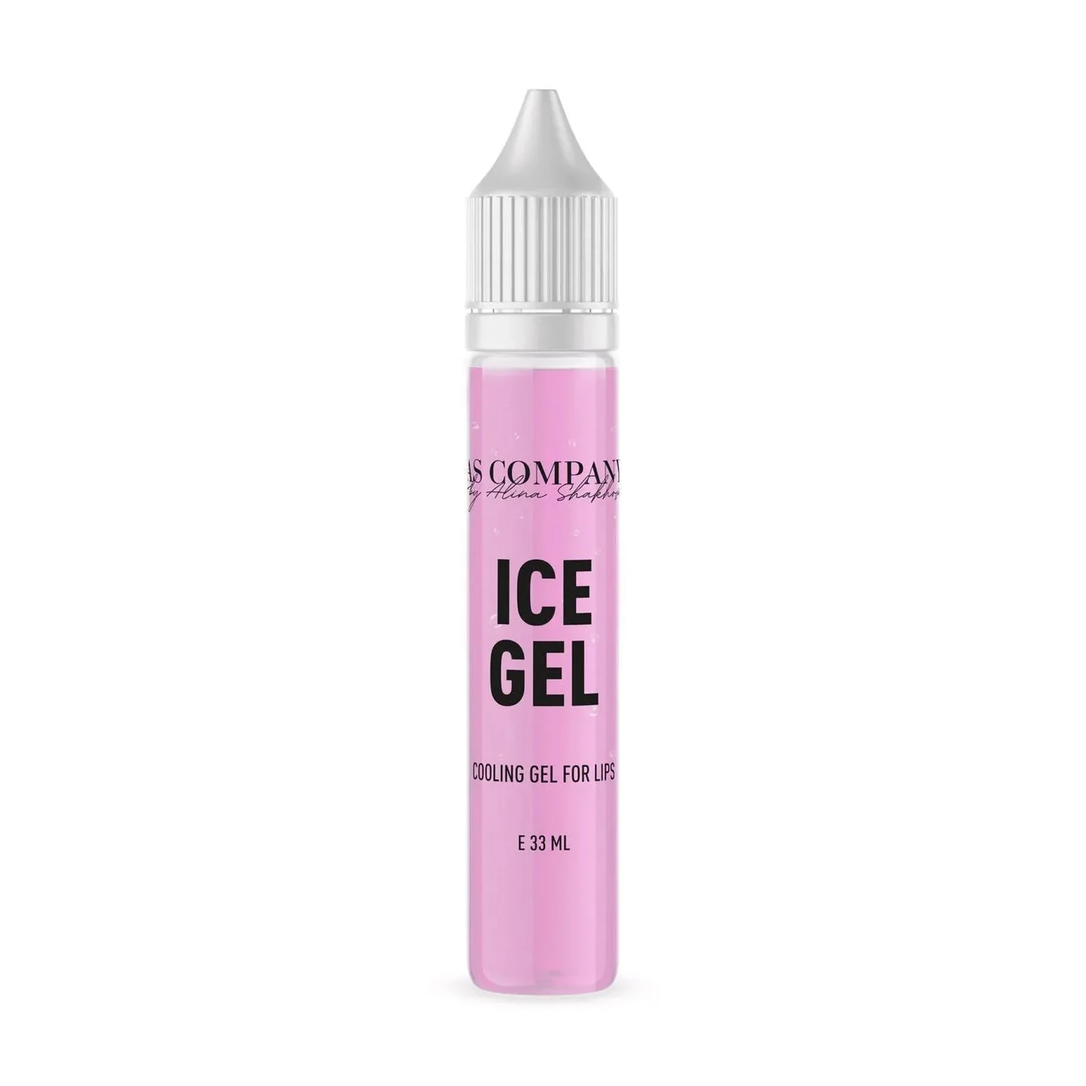
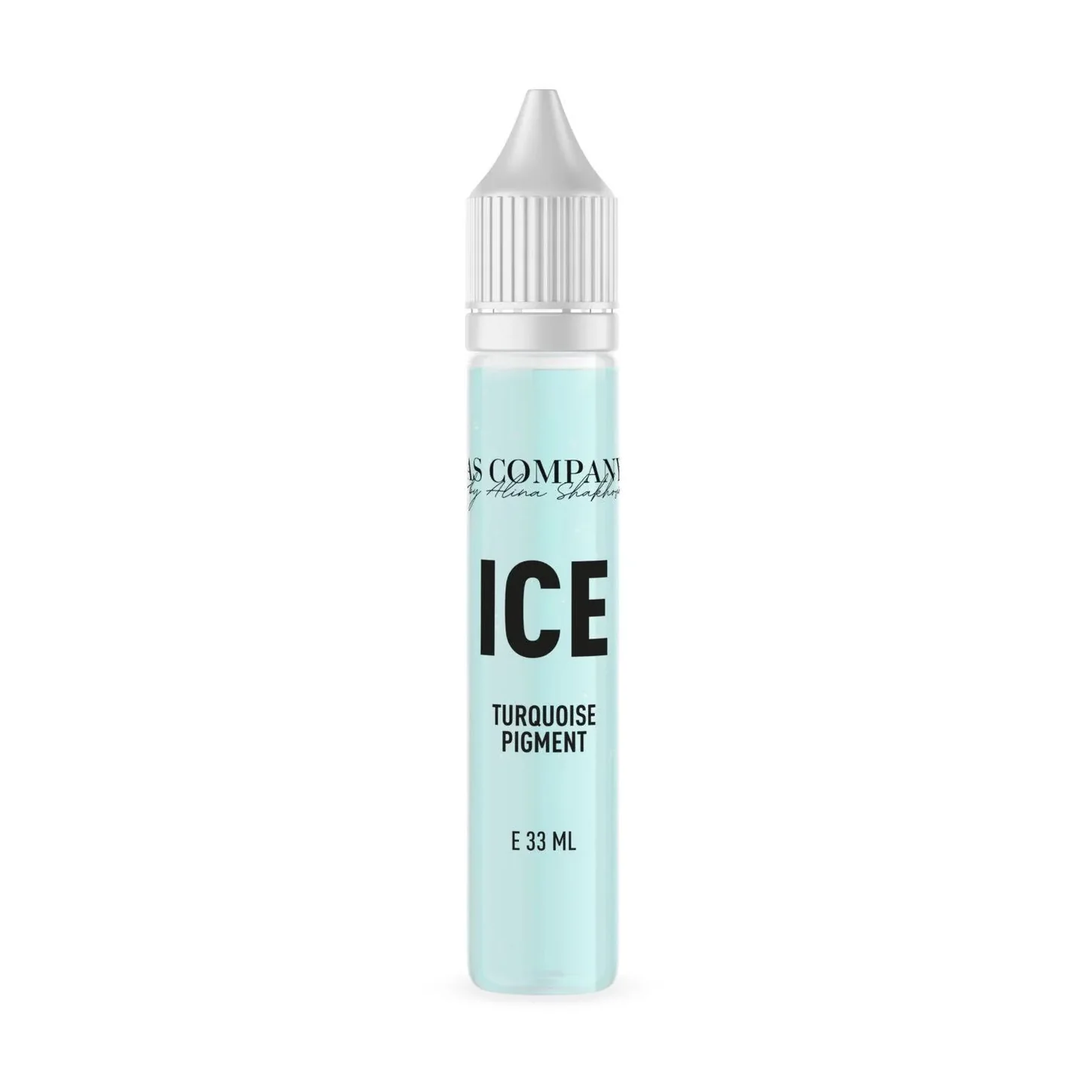
Uwagi klientki i Kariny z 26–27.10.2026 (czaty WhatsApp i grupa „Strona”)
Sklep (src/data/shop.json, ceny od Kariny):
- Kartridże FLAT Supernatural 250 zł (dawniej „Specially Collaboration”),
  SATELLITE 255 zł, Ice Gel 270 zł, Ice LTB Gel 270 zł, Glow Oil ×2 po
  125 zł, lampa pierścieniowa 1690 zł; Ice Gel Lips – na zapytanie.
- Nowe: Pędzel do brwi 15 zł (akcesoria do rysunku), Sztuczna skórka do
  ćwiczeń 50 zł i Pilot czerwony 10 zł (akcesoria do ćwiczeń).
- Nazwy żeli wg klientki: Ice Gel (zielony), Ice Gel Lips (różowy),
  Ice LTB Gel (matowy zielony); bez dopisków „napis na opakowaniu”.
- Kafle kategorii ze zdjęciami produktów, większe miniatury w wierszach
  (klientka: „bardzo dużo tekstów, bardzo mało obrazków”).
Pigmenty: SUPERNATURAL BROWS = jeden zestaw „Pigmenty Supernatural”
1000 zł (Karina 27.10) ; Hairstrokes przeniesione do AS OPIUM (klientka:
„pigmenty Hair Strokes to jest kolekcja Opium”); bez C1 Orange / Mineral.
Maszynka AS PRINCESS: zdjęcie Champagne Gold (Karina 26.10).
Szkolenia: harmonogram kursu dla linergistek (7 000 zł) jako 4. plakat.
Zdjęcia z czatów skopiowane do /Graphics (8 plików), course-08 i nowe
packshoty w public/graphics, media.js z manifestu.

Changed region(s): [[0.4062, 0.3125, 0.5938, 0.9375]]

diff --git a/src/lib/media.js b/src/lib/media.js
@@ -34,7 +34,7 @@ export const ACADEMY = [
   { src: '/graphics/academy-08.jpg', w: 1206, h: 1582, webp: { '480': '/graphics/academy-08-480.webp', '960': '/graphics/academy-08-960.webp', '1206': '/graphics/academy-08.webp' } },
 ];
 
-/** Grafiki programów szkoleń (7, z wtopionym tekstem) */
+/** Grafiki programów szkoleń (8, z wtopionym tekstem; course-08 – harmonogram kursu dla linergistek, 26.10.2026) */
 export const COURSE = [
   { src: '/graphics/course-01.jpg', w: 900, h: 1600, webp: { '480': '/graphics/course-01-480.webp', '900': '/graphics/course-01.webp' } },
   { src: '/graphics/course-02.jpg', w: 900, h: 1600, webp: { '480': '/graphics/course-02-480.webp', '900': '/graphics/course-02.webp' } },
@@ -43,6 +43,7 @@ export const COURSE = [
   { src: '/graphics/course-05.jpg', w: 586, h: 1040, webp: { '480': '/graphics/course-05-480.webp', '586': '/graphics/course-05.webp' } },
   { src: '/graphics/course-06.jpg', w: 586, h: 1040, webp: { '480': '/graphics/course-06-480.webp', '586': '/graphics/course-06.webp' } },
   { src: '/graphics/course-07.jpg', w: 586, h: 1040, webp: { '480': '/graphics/course-07-480.webp', '586': '/graphics/course-07.webp' } },
+  { src: '/graphics/course-08.jpg', w: 1086, h: 1920, webp: { '480': '/graphics/course-08-480.webp', '960': '/graphics/course-08-960.webp', '1086': '/graphics/course-08.webp' } },
 ];
 
 /** Efekty PMU brwi – pliki zbiorcze (18) */
@@ -133,7 +134,7 @@ export const PRODUCTS = {
   'product-as-classic-pigments-plum-dessert': { src: '/graphics/product-as-classic-pigments-plum-dessert.jpg', w: 1536, h: 1536, webp: { '480': '/graphics/product-as-classic-pigments-plum-dessert-480.webp', '960': '/graphics/product-as-classic-pigments-plum-dessert-960.webp', '1440': '/graphics/product-as-classic-pigments-plum-dessert-1440.webp', '1536': '/graphics/product-as-classic-pigments-plum-dessert.webp' } },
   'product-as-classic-pigments-watermelon-ice': { src: '/graphics/product-as-classic-pigments-watermelon-ice.jpg', w: 650, h: 650, webp: { '480': '/graphics/product-as-classic-pigments-watermelon-ice-480.webp', '650': '/graphics/product-as-classic-pigments-watermelon-ice.webp' } },
   'product-as-opium-light-minerals-pigments-black-brown': { src: '/graphics/product-as-opium-light-minerals-pigments-black-brown.jpg', w: 1536, h: 1536, webp: { '480': '/graphics/product-as-opium-light-minerals-pigments-black-brown-480.webp', '960': '/graphics/product-as-opium-light-minerals-pigments-black-brown-960.webp', '1440': '/graphics/product-as-opium-light-minerals-pigments-black-brown-1440.webp', '1536': '/graphics/product-as-opium-light-minerals-pigments-black-brown.webp' } },
-  'product-as-opium-light-minerals-pigments-dark-brown': { src: '/graphics/product-as-opium-light-minerals-pigments-dark-brown.jpg', w: 1170, h: 1179, webp: { '480': '/graphics/product-as-opium-light-minerals-pigments-dark-brown-480.webp', '960': '/graphics/product-as-opium-light-minerals-pigments-dark-brown-960.webp', '1170': '/graphics/product-as-opium-light-minerals-pigments-dark-brown.webp' } },
+  'product-as-opium-light-minerals-pigments-dark-brown': { src: '/graphics/product-as-opium-light-minerals-pigments-dark-brown.jpg', w: 1170, h: 1166, webp: { '480': '/graphics/product-as-opium-light-minerals-pigments-dark-brown-480.webp', '960': '/graphics/product-as-opium-light-minerals-pigments-dark-brown-960.webp', '1170': '/graphics/product-as-opium-light-minerals-pigments-dark-brown.webp' } },
   'product-as-opium-pigments-brazil': { src: '/graphics/product-as-opium-pigments-brazil.jpg', w: 1536, h: 1536, webp: { '480': '/graphics/product-as-opium-pigments-brazil-480.webp', '960': '/graphics/product-as-opium-pigments-brazil-960.webp', '1440': '/graphics/product-as-opium-pigments-brazil-1440.webp', '1536': '/graphics/product-as-opium-pigments-brazil.webp' } },
   'product-as-opium-pigments-brick': { src: '/graphics/product-as-opium-pigments-brick.jpg', w: 1536, h: 1536, webp: { '480': '/graphics/product-as-opium-pigments-brick-480.webp', '960': '/graphics/product-as-opium-pigments-brick-960.webp', '1440': '/graphics/product-as-opium-pigments-brick-1440.webp', '1536': '/graphics/product-as-opium-pigments-brick.webp' } },
   'product-as-opium-pigments-carrot': { src: '/graphics/product-as-opium-pigments-carrot.jpg', w: 650, h: 650, webp: { '480': '/graphics/product-as-opium-pigments-carrot-480.webp', '650': '/graphics/product-as-opium-pigments-carrot.webp' } },
@@ -148,6 +149,7 @@ export const PRODUCTS = {
   'product-as-opium-pigments-soil': { src: '/graphics/product-as-opium-pigments-soil.jpg', w: 1536, h: 1536, webp: { '480': '/graphics/product-as-opium-pigments-soil-480.webp', '960': '/graphics/product-as-opium-pigments-soil-960.webp', '1440': '/graphics/product-as-opium-pigments-soil-1440.webp', '1536': '/graphics/product-as-opium-pigments-soil.webp' } },
   'product-as-opium-pigments-whiskey': { src: '/graphics/product-as-opium-pigments-whiskey.jpg', w: 1536, h: 1536, webp: { '480': '/graphics/product-as-opium-pigments-whiskey-480.webp', '960': '/graphics/product-as-opium-pigments-whiskey-960.webp', '1440': '/graphics/product-as-opium-pigments-whiskey-1440.webp', '1536': '/graphics/product-as-opium-pigments-whiskey.webp' } },
   'product-as-opium-pigments-wood': { src: '/graphics/product-as-opium-pigments-wood.jpg', w: 1536, h: 1536, webp: { '480': '/graphics/product-as-opium-pigments-wood-480.webp', '960': '/graphics/product-as-opium-pigments-wood-960.webp', '1440': '/graphics/product-as-opium-pigments-wood-1440.webp', '1536': '/graphics/product-as-opium-pigments-wood.webp' } },
+  'product-as-princess-champagne-gold': { src: '/graphics/product-as-princess-champagne-gold.jpg', w: 1080, h: 1080, webp: { '480': '/graphics/product-as-princess-champagne-gold-480.webp', '960': '/graphics/product-as-princess-champagne-gold-960.webp', '1080': '/graphics/product-as-princess-champagne-gold.webp' } },
   'product-as-princess-gold': { src: '/graphics/product-as-princess-gold.jpg', w: 1080, h: 1080, webp: { '480': '/graphics/product-as-princess-gold-480.webp', '960': '/graphics/product-as-princess-gold-960.webp', '1080': '/graphics/product-as-princess-gold.webp' } },
   'product-as-princess-pink': { src: '/graphics/product-as-princess-pink.jpg', w: 1080, h: 1080, webp: { '480': '/graphics/product-as-princess-pink-480.webp', '960': '/graphics/product-as-princess-pink-960.webp', '1080': '/graphics/product-as-princess-pink.webp' } },
   'product-deva-maria-6-ml-paradise': { src: '/graphics/product-deva-maria-6-ml-paradise.jpg', w: 1280, h: 1280, webp: { '480': '/graphics/product-deva-maria-6-ml-paradise-480.webp', '960': '/graphics/product-deva-maria-6-ml-paradise-960.webp', '1280': '/graphics/product-deva-maria-6-ml-paradise.webp' } },
@@ -160,16 +162,22 @@ export const PRODUCTS = {
   'product-hairstrokes-h6-dark-brown': { src: '/graphics/product-hairstrokes-h6-dark-brown.jpg', w: 1536, h: 1536, webp: { '480': '/graphics/product-hairstrokes-h6-dark-brown-480.webp', '960': '/graphics/product-hairstrokes-h6-dark-brown-960.webp', '1440': '/graphics/product-hairstrokes-h6-dark-brown-1440.webp', '1536': '/graphics/product-hairstrokes-h6-dark-brown.webp' } },
   'product-harley-harley-quinn-6ml-kopia': { src: '/graphics/product-harley-harley-quinn-6ml-kopia.jpg', w: 1536, h: 1536, webp: { '480': '/graphics/product-harley-harley-quinn-6ml-kopia-480.webp', '960': '/graphics/product-harley-harley-quinn-6ml-kopia-960.webp', '1440': '/graphics/product-harley-harley-quinn-6ml-kopia-1440.webp', '1536': '/graphics/product-harley-harley-quinn-6ml-kopia.webp' } },
   'product-ice-gel': { src: '/graphics/product-ice-gel.jpg', w: 1536, h: 1536, webp: { '480': '/graphics/product-ice-gel-480.webp', '960': '/graphics/product-ice-gel-960.webp', '1440': '/graphics/product-ice-gel-1440.webp', '1536': '/graphics/product-ice-gel.webp' } },
+  'product-ice-gel-lips': { src: '/graphics/product-ice-gel-lips.jpg', w: 1536, h: 1536, webp: { '480': '/graphics/product-ice-gel-lips-480.webp', '960': '/graphics/product-ice-gel-lips-960.webp', '1440': '/graphics/product-ice-gel-lips-1440.webp', '1536': '/graphics/product-ice-gel-lips.webp' } },
+  'product-ice-ltb-gel': { src: '/graphics/product-ice-ltb-gel.jpg', w: 1536, h: 1536, webp: { '480': '/graphics/product-ice-ltb-gel-480.webp', '960': '/graphics/product-ice-ltb-gel-960.webp', '1440': '/graphics/product-ice-ltb-gel-1440.webp', '1536': '/graphics/product-ice-ltb-gel.webp' } },
   'product-joker-harley-quinn-6ml': { src: '/graphics/product-joker-harley-quinn-6ml.jpg', w: 1536, h: 1536, webp: { '480': '/graphics/product-joker-harley-quinn-6ml-480.webp', '960': '/graphics/product-joker-harley-quinn-6ml-960.webp', '1440': '/graphics/product-joker-harley-quinn-6ml-1440.webp', '1536': '/graphics/product-joker-harley-quinn-6ml.webp' } },
+  'product-kartridze-flat-supernatural': { src: '/graphics/product-kartridze-flat-supernatural.jpg', w: 930, h: 930, webp: { '480': '/graphics/product-kartridze-flat-supernatural-480.webp', '930': '/graphics/product-kartridze-flat-supernatural.webp' } },
   'product-kartridze-satellite': { src: '/graphics/product-kartridze-satellite.jpg', w: 1143, h: 1297, webp: { '480': '/graphics/product-kartridze-satellite-480.webp', '960': '/graphics/product-kartridze-satellite-960.webp', '1143': '/graphics/product-kartridze-satellite.webp' } },
   'product-kredka-brazowa': { src: '/graphics/product-kredka-brazowa.jpg', w: 320, h: 860, webp: { '320': '/graphics/product-kredka-brazowa.webp', '480': '/graphics/product-kredka-brazowa-480.webp' } },
   'product-kredka-czarna': { src: '/graphics/product-kredka-czarna.jpg', w: 408, h: 860, webp: { '408': '/graphics/product-kredka-czarna.webp', '480': '/graphics/product-kredka-czarna-480.webp' } },
   'product-kredka-czerwona': { src: '/graphics/product-kredka-czerwona.jpg', w: 320, h: 860, webp: { '320': '/graphics/product-kredka-czerwona.webp', '480': '/graphics/product-kredka-czerwona-480.webp' } },
   'product-lampa-pierscieniowa': { src: '/graphics/product-lampa-pierscieniowa.jpg', w: 1372, h: 1920, webp: { '480': '/graphics/product-lampa-pierscieniowa-480.webp', '960': '/graphics/product-lampa-pierscieniowa-960.webp', '1372': '/graphics/product-lampa-pierscieniowa.webp' } },
-  'product-ltb-numb': { src: '/graphics/product-ltb-numb.jpg', w: 1536, h: 1536, webp: { '480': '/graphics/product-ltb-numb-480.webp', '960': '/graphics/product-ltb-numb-960.webp', '1440': '/graphics/product-ltb-numb-1440.webp', '1536': '/graphics/product-ltb-numb.webp' } },
   'product-maria-magdalena-6-ml-paradise': { src: '/graphics/product-maria-magdalena-6-ml-paradise.jpg', w: 1280, h: 1280, webp: { '480': '/graphics/product-maria-magdalena-6-ml-paradise-480.webp', '960': '/graphics/product-maria-magdalena-6-ml-paradise-960.webp', '1280': '/graphics/product-maria-magdalena-6-ml-paradise.webp' } },
+  'product-pedzel-do-brwi': { src: '/graphics/product-pedzel-do-brwi.jpg', w: 1158, h: 1158, webp: { '480': '/graphics/product-pedzel-do-brwi-480.webp', '960': '/graphics/product-pedzel-do-brwi-960.webp', '1158': '/graphics/product-pedzel-do-brwi.webp' } },
+  'product-pigmenty-supernatural': { src: '/graphics/product-pigmenty-supernatural.jpg', w: 1713, h: 1713, webp: { '480': '/graphics/product-pigmenty-supernatural-480.webp', '960': '/graphics/product-pigmenty-supernatural-960.webp', '1440': '/graphics/product-pigmenty-supernatural-1440.webp', '1713': '/graphics/product-pigmenty-supernatural.webp' } },
+  'product-pilot-czerwony': { src: '/graphics/product-pilot-czerwony.jpg', w: 902, h: 902, webp: { '480': '/graphics/product-pilot-czerwony-480.webp', '902': '/graphics/product-pilot-czerwony.webp' } },
   'product-set-harley-quinn-do-ust': { src: '/graphics/product-set-harley-quinn-do-ust.jpg', w: 1536, h: 1536, webp: { '480': '/graphics/product-set-harley-quinn-do-ust-480.webp', '960': '/graphics/product-set-harley-quinn-do-ust-960.webp', '1440': '/graphics/product-set-harley-quinn-do-ust-1440.webp', '1536': '/graphics/product-set-harley-quinn-do-ust.webp' } },
   'product-set-paradise-do-ust': { src: '/graphics/product-set-paradise-do-ust.jpg', w: 1079, h: 946, webp: { '480': '/graphics/product-set-paradise-do-ust-480.webp', '960': '/graphics/product-set-paradise-do-ust-960.webp', '1079': '/graphics/product-set-paradise-do-ust.webp' } },
+  'product-sztuczna-skorka-do-cwiczen': { src: '/graphics/product-sztuczna-skorka-do-cwiczen.jpg', w: 1023, h: 1023, webp: { '480': '/graphics/product-sztuczna-skorka-do-cwiczen-480.webp', '960': '/graphics/product-sztuczna-skorka-do-cwiczen-960.webp', '1023': '/graphics/product-sztuczna-skorka-do-cwiczen.webp' } },
 };
 
 /** Prace z 29.09.2026 – kadry przycięte bez doklejonej butelki (scripts/przygotuj-grafiki.py,
@@ -239,6 +247,7 @@ export const BY_NAME = {
   'course-05': { src: '/graphics/course-05.jpg', w: 586, h: 1040, webp: { '480': '/graphics/course-05-480.webp', '586': '/graphics/course-05.webp' } },
   'course-06': { src: '/graphics/course-06.jpg', w: 586, h: 1040, webp: { '480': '/graphics/course-06-480.webp', '586': '/graphics/course-06.webp' } },
   'course-07': { src: '/graphics/course-07.jpg', w: 586, h: 1040, webp: { '480': '/graphics/course-07-480.webp', '586': '/graphics/course-07.webp' } },
+  'course-08': { src: '/graphics/course-08.jpg', w: 1086, h: 1920, webp: { '480': '/graphics/course-08-480.webp', '960': '/graphics/course-08-960.webp', '1086': '/graphics/course-08.webp' } },
   'lips-01': { src: '/graphics/lips-01.jpg', w: 1206, h: 1497, webp: { '480': '/graphics/lips-01-480.webp', '960': '/graphics/lips-01-960.webp', '1206': '/graphics/lips-01.webp' } },
   'lips-01-p1': { src: '/graphics/lips-01-p1.jpg', w: 1206, h: 753, webp: { '480': '/graphics/lips-01-p1-480.webp', '960': '/graphics/lips-01-p1-960.webp', '1206': '/graphics/lips-01-p1.webp' } },
   'lips-01-p2': { src: '/graphics/lips-01-p2.jpg', w: 1206, h: 744, webp: { '480': '/graphics/lips-01-p2-480.webp', '960': '/graphics/lips-01-p2-960.webp', '1206': '/graphics/lips-01-p2.webp' } },
@@ -266,7 +275,7 @@ export const BY_NAME = {
   'product-as-classic-pigments-plum-dessert': { src: '/graphics/product-as-classic-pigments-plum-dessert.jpg', w: 1536, h: 1536, webp: { '480': '/graphics/product-as-classic-pigments-plum-dessert-480.webp', '960': '/graphics/product-as-classic-pigments-plum-dessert-960.webp', '1440': '/graphics/product-as-classic-pigments-plum-dessert-1440.webp', '1536': '/graphics/product-as-classic-pigments-plum-dessert.webp' } },
   'product-as-classic-pigments-watermelon-ice': { src: '/graphics/product-as-classic-pigments-watermelon-ice.jpg', w: 650, h: 650, webp: { '480': '/graphics/product-as-classic-pigments-watermelon-ice-480.webp', '650': '/graphics/product-as-classic-pigments-watermelon-ice.webp' } },
   'product-as-opium-light-minerals-pigments-black-brown': { src: '/graphics/product-as-opium-light-minerals-pigments-black-brown.jpg', w: 1536, h: 1536, webp: { '480': '/graphics/product-as-opium-light-minerals-pigments-black-brown-480.webp', '960': '/graphics/product-as-opium-light-minerals-pigments-black-brown-960.webp', '1440': '/graphics/product-as-opium-light-minerals-pigments-black-brown-1440.webp', '1536': '/graphics/product-as-opium-light-minerals-pigments-black-brown.webp' } },
-  'product-as-opium-light-minerals-pigments-dark-brown': { src: '/graphics/product-as-opium-light-minerals-pigments-dark-brown.jpg', w: 1170, h: 1179, webp: { '480': '/graphics/product-as-opium-light-minerals-pigments-dark-brown-480.webp', '960': '/graphics/product-as-opium-light-minerals-pigments-dark-brown-960.webp', '1170': '/graphics/product-as-opium-light-minerals-pigments-dark-brown.webp' } },
+  'product-as-opium-light-minerals-pigments-dark-brown': { src: '/graphics/product-as-opium-light-minerals-pigments-dark-brown.jpg', w: 1170, h: 1166, webp: { '480': '/graphics/product-as-opium-light-minerals-pigments-dark-brown-480.webp', '960': '/graphics/product-as-opium-light-minerals-pigments-dark-brown-960.webp', '1170': '/graphics/product-as-opium-light-minerals-pigments-dark-brown.webp' } },
   'product-as-opium-pigments-brazil': { src: '/graphics/product-as-opium-pigments-brazil.jpg', w: 1536, h: 1536, webp: { '480': '/graphics/product-as-opium-pigments-brazil-480.webp', '960': '/graphics/product-as-opium-pigments-brazil-960.webp', '1440': '/graphics/product-as-opium-pigments-brazil-1440.webp', '1536': '/graphics/product-as-opium-pigments-brazil.webp' } },
   'product-as-opium-pigments-brick': { src: '/graphics/product-as-opium-pigments-brick.jpg', w: 1536, h: 1536, webp: { '480': '/graphics/product-as-opium-pigments-brick-480.webp', '960': '/graphics/product-as-opium-pigments-brick-960.webp', '1440': '/graphics/product-as-opium-pigments-brick-1440.webp', '1536': '/graphics/product-as-opium-pigments-brick.webp' } },
   'product-as-opium-pigments-carrot': { src: '/graphics/product-as-opium-pigments-carrot.jpg', w: 650, h: 650, webp: { '480': '/graphics/product-as-opium-pigments-carrot-480.webp', '650': '/graphics/product-as-opium-pigments-carrot.webp' } },
@@ -281,6 +290,7 @@ export const BY_NAME = {
   'product-as-opium-pigments-soil': { src: '/graphics/product-as-opium-pigments-soil.jpg', w: 1536, h: 1536, webp: { '480': '/graphics/product-as-opium-pigments-soil-480.webp', '960': '/graphics/product-as-opium-pigments-soil-960.webp', '1440': '/graphics/product-as-opium-pigments-soil-1440.webp', '1536': '/graphics/product-as-opium-pigments-soil.webp' } },
   'product-as-opium-pigments-whiskey': { src: '/graphics/product-as-opium-pigments-whiskey.jpg', w: 1536, h: 1536, webp: { '480': '/graphics/product-as-opium-pigments-whiskey-480.webp', '960': '/graphics/product-as-opium-pigments-whiskey-960.webp', '1440': '/graphics/product-as-opium-pigments-whiskey-1440.webp', '1536': '/graphics/product-as-opium-pigments-whiskey.webp' } },
   'product-as-opium-pigments-wood': { src: '/graphics/product-as-opium-pigments-wood.jpg', w: 1536, h: 1536, webp: { '480': '/graphics/product-as-opium-pigments-wood-480.webp', '960': '/graphics/product-as-opium-pigments-wood-960.webp', '1440': '/graphics/product-as-opium-pigments-wood-1440.webp', '1536': '/graphics/product-as-opium-pigments-wood.webp' } },
+  'product-as-princess-champagne-gold': { src: '/graphics/product-as-princess-champagne-gold.jpg', w: 1080, h: 1080, webp: { '480': '/graphics/product-as-princess-champagne-gold-480.webp', '960': '/graphics/product-as-princess-champagne-gold-960.webp', '1080': '/graphics/product-as-princess-champagne-gold.webp' } },
   'product-as-princess-gold': { src: '/graphics/product-as-princess-gold.jpg', w: 1080, h: 1080, webp: { '480': '/graphics/product-as-princess-gold-480.webp', '960': '/graphics/product-as-princess-gold-960.webp', '1080': '/graphics/product-as-princess-gold.webp' } },
   'product-as-princess-pink': { src: '/graphics/product-as-princess-pink.jpg', w: 1080, h: 1080, webp: { '480': '/graphics/product-as-princess-pink-480.webp', '960': '/graphics/product-as-princess-pink-960.webp', '1080': '/graphics/product-as-princess-pink.webp' } },
   'product-deva-maria-6-ml-paradise': { src: '/graphics/product-deva-maria-6-ml-paradise.jpg', w: 1280, h: 1280, webp: { '480': '/graphics/product-deva-maria-6-ml-paradise-480.webp', '960': '/graphics/product-deva-maria-6-ml-paradise-960.webp', '1280': '/graphics/product-deva-maria-6-ml-paradise.webp' } },
@@ -293,16 +303,22 @@ export const BY_NAME = {
   'product-hairstrokes-h6-dark-brown': { src: '/graphics/product-hairstrokes-h6-dark-brown.jpg', w: 1536, h: 1536, webp: { '480': '/graphics/product-hairstrokes-h6-dark-brown-480.webp', '960': '/graphics/product-hairstrokes-h6-dark-brown-960.webp', '1440': '/graphics/product-hairstrokes-h6-dark-brown-1440.webp', '1536': '/graphics/product-hairstrokes-h6-dark-brown.webp' } },
   'product-harley-harley-quinn-6ml-kopia': { src: '/graphics/product-harley-harley-quinn-6ml-kopia.jpg', w: 1536, h: 1536, webp: { '480': '/graphics/product-harley-harley-quinn-6ml-kopia-480.webp', '960': '/graphics/product-harley-harley-quinn-6ml-kopia-960.webp', '1440': '/graphics/product-harley-harley-quinn-6ml-kopia-1440.webp', '1536': '/graphics/product-harley-harley-quinn-6ml-kopia.webp' } },
   'product-ice-gel': { src: '/graphics/product-ice-gel.jpg', w: 1536, h: 1536, webp: { '480': '/graphics/product-ice-gel-480.webp', '960': '/graphics/product-ice-gel-960.webp', '1440': '/graphics/product-ice-gel-1440.webp', '1536': '/graphics/product-ice-gel.webp' } },
+  'product-ice-gel-lips': { src: '/graphics/product-ice-gel-lips.jpg', w: 1536, h: 1536, webp: { '480': '/graphics/product-ice-gel-lips-480.webp', '960': '/graphics/product-ice-gel-lips-960.webp', '1440': '/graphics/product-ice-gel-lips-1440.webp', '1536': '/graphics/product-ice-gel-lips.webp' } },
+  'product-ice-ltb-gel': { src: '/graphics/product-ice-ltb-gel.jpg', w: 1536, h: 1536, webp: { '480': '/graphics/product-ice-ltb-gel-480.webp', '960': '/graphics/product-ice-ltb-gel-960.webp', '1440': '/graphics/product-ice-ltb-gel-1440.webp', '1536': '/graphics/product-ice-ltb-gel.webp' } },
   'product-joker-harley-quinn-6ml': { src: '/graphics/product-joker-harley-quinn-6ml.jpg', w: 1536, h: 1536, webp: { '480': '/graphics/product-joker-harley-quinn-6ml-480.webp', '960': '/graphics/product-joker-harley-quinn-6ml-960.webp', '1440': '/graphics/product-joker-harley-quinn-6ml-1440.webp', '1536': '/graphics/product-joker-harley-quinn-6ml.webp' } },
+  'product-kartridze-flat-supernatural': { src: '/graphics/product-kartridze-flat-supernatural.jpg', w: 930, h: 930, webp: { '480': '/graphics/product-kartridze-flat-supernatural-480.webp', '930': '/graphics/product-kartridze-flat-supernatural.webp' } },
   'product-kartridze-satellite': { src: '/graphics/product-kartridze-satellite.jpg', w: 1143, h: 1297, webp: { '480': '/graphics/product-kartridze-satellite-480.webp', '960': '/graphics/product-kartridze-satellite-960.webp', '1143': '/graphics/product-kartridze-satellite.webp' } },
   'product-kredka-brazowa': { src: '/graphics/product-kredka-brazowa.jpg', w: 320, h: 860, webp: { '320': '/graphics/product-kredka-brazowa.webp', '480': '/graphics/product-kredka-brazowa-480.webp' } },
   'product-kredka-czarna': { src: '/graphics/product-kredka-czarna.jpg', w: 408, h: 860, webp: { '408': '/graphics/product-kredka-czarna.webp', '480': '/graphics/product-kredka-czarna-480.webp' } },
   'product-kredka-czerwona': { src: '/graphics/product-kredka-czerwona.jpg', w: 320, h: 860, webp: { '320': '/graphics/product-kredka-czerwona.webp', '480': '/graphics/product-kredka-czerwona-480.webp' } },
   'product-lampa-pierscieniowa': { src: '/graphics/product-lampa-pierscieniowa.jpg', w: 1372, h: 1920, webp: { '480': '/graphics/product-lampa-pierscieniowa-480.webp', '960': '/graphics/product-lampa-pierscieniowa-960.webp', '1372': '/graphics/product-lampa-pierscieniowa.webp' } },
-  'product-ltb-numb': { src: '/graphics/product-ltb-numb.jpg', w: 1536, h: 1536, webp: { '480': '/graphics/product-ltb-numb-480.webp', '960': '/graphics/product-ltb-numb-960.webp', '1440': '/graphics/product-ltb-numb-1440.webp', '1536': '/graphics/product-ltb-numb.webp' } },
   'product-maria-magdalena-6-ml-paradise': { src: '/graphics/product-maria-magdalena-6-ml-paradise.jpg', w: 1280, h: 1280, webp: { '480': '/graphics/product-maria-magdalena-6-ml-paradise-480.webp', '960': '/graphics/product-maria-magdalena-6-ml-paradise-960.webp', '1280': '/graphics/product-maria-magdalena-6-ml-paradise.webp' } },
+  'product-pedzel-do-brwi': { src: '/graphics/product-pedzel-do-brwi.jpg', w: 1158, h: 1158, webp: { '480': '/graphics/product-pedzel-do-brwi-480.webp', '960': '/graphics/product-pedzel-do-brwi-960.webp', '1158': '/graphics/product-pedzel-do-brwi.webp' } },
+  'product-pigmenty-supernatural': { src: '/graphics/product-pigmenty-supernatural.jpg', w: 1713, h: 1713, webp: { '480': '/graphics/product-pigmenty-supernatural-480.webp', '960': '/graphics/product-pigmenty-supernatural-960.webp', '1440': '/graphics/product-pigmenty-supernatural-1440.webp', '1713': '/graphics/product-pigmenty-supernatural.webp' } },
+  'product-pilot-czerwony': { src: '/graphics/product-pilot-czerwony.jpg', w: 902, h: 902, webp: { '480': '/graphics/product-pilot-czerwony-480.webp', '902': '/graphics/product-pilot-czerwony.webp' } },
   'product-set-harley-quinn-do-ust': { src: '/graphics/product-set-harley-quinn-do-ust.jpg', w: 1536, h: 1536, webp: { '480': '/graphics/product-set-harley-quinn-do-ust-480.webp', '960': '/graphics/product-set-harley-quinn-do-ust-960.webp', '1440': '/graphics/product-set-harley-quinn-do-ust-1440.webp', '1536': '/graphics/product-set-harley-quinn-do-ust.webp' } },
   'product-set-paradise-do-ust': { src: '/graphics/product-set-paradise-do-ust.jpg', w: 1079, h: 946, webp: { '480': '/graphics/product-set-paradise-do-ust-480.webp', '960': '/graphics/product-set-paradise-do-ust-960.webp', '1079': '/graphics/product-set-paradise-do-ust.webp' } },
+  'product-sztuczna-skorka-do-cwiczen': { src: '/graphics/product-sztuczna-skorka-do-cwiczen.jpg', w: 1023, h: 1023, webp: { '480': '/graphics/product-sztuczna-skorka-do-cwiczen-480.webp', '960': '/graphics/product-sztuczna-skorka-do-cwiczen-960.webp', '1023': '/graphics/product-sztuczna-skorka-do-cwiczen.webp' } },
   'studio-01': { src: '/graphics/studio-01.jpg', w: 1068, h: 1600, webp: { '480': '/graphics/studio-01-480.webp', '960': '/graphics/studio-01-960.webp', '1068': '/graphics/studio-01.webp' } },
   'studio-02': { src: '/graphics/studio-02.jpg', w: 1068, h: 1600, webp: { '480': '/graphics/studio-02-480.webp', '960': '/graphics/studio-02-960.webp', '1068': '/graphics/studio-02.webp' } },
   'studio-03': { src: '/graphics/studio-03.jpg', w: 1068, h: 1600, webp: { '480': '/graphics/studio-03-480.webp', '960': '/graphics/studio-03-960.webp', '1068': '/graphics/studio-03.webp' } },

diff --git a/src/lib/pigments.js b/src/lib/pigments.js
@@ -44,18 +44,21 @@ function withEnDash(value) {
  * Katalog wg klientki i Kariny (decyzja Filipa z 18.10.2026: „wprowadź tak, jak prosiła klientka”).
  *
  * Grupy – klientka 14.10.2026: „Katalog pigmentów dzielimy na: pigmenty SUPERNATURAL BROWS, pigmenty
- * AS opium (usta, brwi), pigmenty AS Classic (usta, brwi), pigmenty AS opium light”; SUPERNATURAL
- * BROWS = kolekcja Hairstrokes (decyzja Filipa). Lista Kariny z 14.10.2026 zostawia też kolekcje
+ * AS opium (usta, brwi), pigmenty AS Classic (usta, brwi), pigmenty AS opium light”. Klientka
+ * 26.10.2026: „Supernatural Brows to jest jeden, jedyny set aktualnie … pigmenty Hair Strokes to jest
+ * kolekcja Opium” – SUPERNATURAL BROWS = jeden zestaw z pigments-client.json (Karina 27.10: „Set
+ * pigmentów Supernatural cena 1000zł”), Hairstrokes przeniesione do AS OPIUM (CLIENT_MOVED).
+ * Lista Kariny z 14.10.2026 zostawia też kolekcje
  * Harley Quinn i Paradise (dodaje ich zestawy, usuwa część odcieni) – osobne grupy na końcu.
  * Areola/Camouflage i Trichopigmentation – „Należy zabrać wszystkie pigmenty z kolekcji”.
  *
  * CLIENT_REMOVED – pozycje, które Karina kazała „zabrać”; dane w src/data/pigments.json zostają
  * bez zmian (to kopia danych z 29.09), filtr działa tutaj. CLIENT_EXTRA – nowe pozycje z listy
- * Kariny (src/data/pigments-client.json, np. „Hairstrokes Set Collaboration”, przedsprzedaż).
+ * Kariny (src/data/pigments-client.json, np. zestaw „Pigmenty Supernatural”, przedsprzedaż).
  * `name` w grupie – nazwa na stronie (inna niż w danych).
  */
 export const CLIENT_GROUPS = [
-  { id: 'hairstrokes', name: 'SUPERNATURAL BROWS' },
+  { id: 'supernatural-brows' },
   { id: 'as-opium' },
   { id: 'as-classic' },
   { id: 'as-opium-light-minerals' },
@@ -104,15 +107,23 @@ export const CLIENT_REMOVED = new Set([
     'pink-peach', 'red-royal', 'salmon', 'skin', 'toffee',
   ].map((s) => `as-opium-pigments-${s}`),
   'ultra-black-6-ml-pigment-do-kresek',
+  // Karina 26.10.2026: „Pigment C1 Orange nie jest dostępny w naszej sprzedaży” (C1 Orange / Mineral)
+  'hairstrokes-h1-brown',
 ]);
+
+/* Klientka 26.10.2026: „pigmenty Hair Strokes to jest kolekcja Opium” – pozycje Hairstrokes
+   (H6, H7, Eyebrow Set Hair Strokes) pokazujemy w AS OPIUM. */
+export const CLIENT_MOVED = { hairstrokes: 'as-opium' };
 
 const CLIENT_EXTRA = rawClient.products;
 
 function clientCatalog(full) {
-  const byId = new Map(full.collections.map((c) => [c.id, c]));
+  /* kolekcje z danych + nowe od klientki (SUPERNATURAL BROWS – pigments-client.json) */
+  const byId = new Map([...full.collections, ...(rawClient.collections ?? [])].map((c) => [c.id, c]));
   const order = new Map(CLIENT_GROUPS.map((g, i) => [g.id, i]));
   /* sortowanie stabilne – w obrębie kolekcji kolejność z danych (odcienie → zestawy), nowe na końcu */
   const products = [...full.products.filter((p) => !CLIENT_REMOVED.has(p.id)), ...CLIENT_EXTRA]
+    .map((p) => (CLIENT_MOVED[p.collection] ? { ...p, collection: CLIENT_MOVED[p.collection] } : p))
     .filter((p) => order.has(p.collection))
     .sort((a, b) => order.get(a.collection) - order.get(b.collection) || Number(a.isSet) - Number(b.isSet));
   /* liczby kolekcji z pozycji, które zostały (w danych – stan sprzed listy Kariny) */
@@ -153,7 +164,7 @@ export const PRICE_MAX_AGE_DAYS = 14;
 /**
  * 19.10.2026 – decyzja Filipa: ceny pigmentów z danych (stan z 29.09) obowiązują bez wygasania.
  * Klientka widziała je na stronie 30.09 bez uwag, a Karina Lesiv (14.10) podała ceny tylko
- * produktów spoza tych danych (Hairstrokes Set Collaboration, kartridże, kredki). Danych nie
+ * produktów spoza tych danych (zestaw Supernatural Brows, kartridże, kredki). Danych nie
  * synchronizujemy już ze sklepem (decyzja Filipa z 18.10), więc wygasanie po PRICE_MAX_AGE_DAYS
  * nie ma zastosowania; podpis „Ceny z 29.09.2026” zostaje. false → wraca wygasanie.
  */

diff --git a/src/views/Shop.jsx b/src/views/Shop.jsx
@@ -93,6 +93,18 @@ function Hero() {
 /*  02 – KATEGORIE                                                     */
 /* ================================================================== */
 
+/* Zdjęcie na kaflu kategorii – packshot z /Graphics (klientka 26.10.2026: „bardzo dużo tekstów,
+   bardzo mało obrazków, po których nie mogę od razu poznać produkty”). Lasery – bez produktu. */
+const TILE_PHOTO = {
+  '/pigmenty': 'as-opium-pigments-brazil',
+  '/maszynki': 'as-princess-gold',
+  kartridze: 'kartridze-flat-supernatural',
+  'akcesoria-do-rysunku': 'kredka-czarna',
+  'akcesoria-do-cwiczen': 'sztuczna-skorka-do-cwiczen',
+  'srodki-zabiegowe': 'ice-gel',
+  lampy: 'lampa-pierscieniowa',
+};
+
 function Categories({ links }) {
   const t = useContent(shopDict);
   const meta = (link) => {
@@ -116,11 +128,19 @@ function Categories({ links }) {
                 <Link
                   href={link.href}
                   /* as-glare – Magic UI „glare-hover” (CSS): złoty odblask przy najechaniu myszą */
-                  className="as-glare group flex min-h-[5.5rem] items-start gap-4 py-5 sm:min-h-[7.5rem] sm:flex-col sm:justify-between"
+                  className="as-glare group flex min-h-[5.5rem] items-center gap-4 py-4 sm:min-h-[7.5rem] sm:flex-col sm:items-start sm:justify-between sm:py-5"
                 >
-                  <span aria-hidden="true" className="as-label w-6 shrink-0 pt-1 text-gold-deep">
+                  <span aria-hidden="true" className="as-label w-6 shrink-0 text-gold-deep sm:pt-1">
                     {String(i + 1).padStart(2, '0')}
                   </span>
+                  {/* telefon: miniatura 64 px obok nazwy; od sm – kwadrat nad nazwą */}
+                  {(TILE_PHOTO[link.href] || TILE_PHOTO[anchorOf(link.href)]) && (
+                    <ProductPhoto
+                      product={{ id: TILE_PHOTO[link.href] || TILE_PHOTO[anchorOf(link.href)] }}
+                      sizes="(min-width: 640px) 112px, 64px"
+                      className="w-16 shrink-0 sm:w-28"
+                    />
+                  )}
                   <span className="min-w-0">
                     <span className="as-title block text-ink decoration-1 underline-offset-4 group-hover:underline">
                       {link.label}

diff --git a/src/views/Machines.jsx b/src/views/Machines.jsx
@@ -122,6 +122,8 @@ const PRINCESS = {
      różowy = Pink); Champagne Gold bez zdjęcia – MachinePhotos dopisuje go
      w adnotacji pod zdjęciami. */
   photos: [
+    /* Champagne Gold – zdjęcie od Kariny Lesiv (26.10.2026: „AS PRINCESS Champagne Gold”) */
+    { image: PRODUCTS['product-as-princess-champagne-gold'], color: 'Champagne Gold' },
     { image: PRODUCTS['product-as-princess-gold'], color: 'Gold' },
     { image: PRODUCTS['product-as-princess-pink'], color: 'Pink' },
   ].filter((p) => p.image),
@@ -216,8 +218,8 @@ function MachinePhotos({ machine, className }) {
     withoutPhoto.map((c) => c.replace(/ /g, '\u00a0'))
   );
   return (
-    <div className={cn('max-w-[22rem]', className)}>
-      <div className="grid grid-cols-2 gap-4 sm:gap-6">
+    <div className={cn(machine.photos.length > 2 ? 'max-w-[30rem]' : 'max-w-[22rem]', className)}>
+      <div className={cn('grid gap-4 sm:gap-6', machine.photos.length > 2 ? 'grid-cols-3' : 'grid-cols-2')}>
         {machine.photos.map((photo) => (
           <figure key={photo.color} className="min-w-0">
             <div className="relative h-[min(18rem,62svh)] sm:h-[min(20rem,62svh)] md:h-[min(26rem,72svh)] lg:h-[min(28rem,72svh)]">

diff --git a/src/components/shop/ShopRow.jsx b/src/components/shop/ShopRow.jsx
@@ -22,8 +22,8 @@ import { useContent, useLocale } from '@/i18n/client';
 import { shopDict } from '@/content/views/shop';
 import { ADD_BTN, PriceLine, ProductPhoto, displayName } from '@/components/pigments/parts';
 
-/* Miniatura: 56 px na telefonie, 72 px od sm. */
-const THUMB_SIZES = '(min-width: 640px) 72px, 56px';
+/* Miniatura: 72 px na telefonie, 88 px od sm (klientka 26.10: „mało obrazków”). */
+const THUMB_SIZES = '(min-width: 640px) 88px, 72px';
 
 function ShopRowBase({ product, qty, onAdd, onDetails, thumbs = false }) {
   const t = useContent(shopDict);
@@ -38,7 +38,7 @@ function ShopRowBase({ product, qty, onAdd, onDetails, thumbs = false }) {
       aria-labelledby={titleId}
       className={cn(
         'grid gap-x-4 border-t border-ink/15 py-4 sm:gap-x-5',
-        thumbs ? 'grid-cols-[3.5rem_minmax(0,1fr)] sm:grid-cols-[4.5rem_minmax(0,1fr)]' : 'grid-cols-[minmax(0,1fr)]'
+        thumbs ? 'grid-cols-[4.5rem_minmax(0,1fr)] sm:grid-cols-[5.5rem_minmax(0,1fr)]' : 'grid-cols-[minmax(0,1fr)]'
       )}
     >
       {thumbs && (hasPhoto ? <ProductPhoto product={product} sizes={THUMB_SIZES} className="self-start" /> : <span aria-hidden="true" />)}

diff --git a/src/components/pigments/ProductCell.jsx b/src/components/pigments/ProductCell.jsx
@@ -154,7 +154,7 @@ function SetRowBase({ product, qty, onAdd, onDetails }) {
             ))}
           </p>
         </div>
-        {/* przedsprzedaż (lista Kariny z 14.10.2026, np. Hairstrokes Set Collaboration) */}
+        {/* przedsprzedaż (lista Kariny z 14.10.2026, np. zestaw Pigmenty Supernatural) */}
         {product.presale && <PresaleBadge className="mt-2">Sprzedaż przedpremierowa</PresaleBadge>}
         {/* h4: zestawy stoją pod nagłówkiem „Zestawy” (h3) */}
         <h4 id={titleId} className="mt-1.5 text-[1.0625rem] leading-snug text-ink">

diff --git a/src/lib/site.js b/src/lib/site.js
@@ -339,6 +339,8 @@ export const COURSES = [
       { index: 1, caption: 'Plakat' },
       { index: 0, caption: 'Program' },
       { index: 2, caption: 'Zakres i cena' },
+      /* Karina Lesiv 26.10.2026: „dodanie harmonogramu do tego kursu za 7 tysięcy” (course-08) */
+      { index: 7, caption: 'Harmonogram' },
     ],
     cta: 'Zapytaj o termin',
     requiresContact: false,

diff --git a/scripts/przygotuj-grafiki.py b/scripts/przygotuj-grafiki.py
@@ -125,8 +125,9 @@ NEW_PRODUCTS = {
     # Sklep (/sklep, src/data/shop.json) – prośba klientki z 14.10.2026: produkty ze zdjęć z 29.09,
     # których dotąd nie było na stronie; nazwy i pojemności z opakowań na zdjęciach.
     # LTB NUMB – packshot na czarnym tle.
-    'product-ltb-numb': '23.05.37',
-    'product-ice-gel': '23.05.37 (1)',              # różowy ICE GEL „cooling gel for lips”
+    # nazwy żeli – klientka 26.10.2026: „ICE GEL – zielony, ICE GEL LIPS – różowy, ICE LTB GEL – matowy zielony”
+    'product-ice-ltb-gel': '23.05.37',              # ICE LTB GEL (dawniej „LTB Numb”)
+    'product-ice-gel-lips': '23.05.37 (1)',         # ICE GEL LIPS – różowy „cooling gel for lips”
     'product-glow-oil-pineapple': '23.05.37 (2)',
     'product-glow-oil-strawberries': '23.05.38',
     'product-lampa-pierscieniowa': '23.05.38 (5)',  # lampa pierścieniowa na statywie
@@ -143,7 +144,24 @@ NEW_PRODUCTS = {
     'product-kredka-czarna': '2026-10-14 at 16.53.15',
     'product-kredka-brazowa': '2026-10-14 at 16.53.41',
     'product-kredka-czerwona': '2026-10-14 at 16.54.08',
+    # 26–27.10.2026 – Karina Lesiv (czat i grupa „Strona”)
+    'product-as-princess-champagne-gold': '2026-10-26 at 12.39.26',
+    'product-ice-gel': '2026-10-26 at 12.54.36',      # ICE GEL – zielony „turquoise pigment”
+    'product-pigmenty-supernatural': '2026-10-27 at 17.44.35',
+    'product-kartridze-flat-supernatural': '2026-10-27 at 17.45.41',
+    'product-sztuczna-skorka-do-cwiczen': '2026-10-27 at 17.46.23',
+    'product-pedzel-do-brwi': '2026-10-27 at 17.52.03',
+    'product-pilot-czerwony': '2026-10-27 at 17.52.35',
 }
+# Zdjęcia 16:9 z dużym białym marginesem (27.10) – kadr przycięty do produktu i dopełniony
+# bielą do kwadratu, jak pozostałe packshoty (miniatura w sklepie nie zostaje kropką).
+PRODUCT_FIT_WHITE = {
+    'product-pigmenty-supernatural', 'product-kartridze-flat-supernatural',
+    'product-sztuczna-skorka-do-cwiczen', 'product-pedzel-do-brwi', 'product-pilot-czerwony',
+}
+# Plakaty kursów spoza listy GROUPS (po nazwie pliku): course-08 – harmonogram kursu
+# dla linergistek Super Natural Brows (Karina Lesiv, 26.10.2026: „harmonogram do kursu za 7 tysięcy”).
+NEW_COURSE = {'course-08': '2026-10-26 at 12.34.28'}
 # work-<technika>-NN: (plik, przycięcie (l, t, r, b) w ułamkach – bez doklejonej butelki)
 NEW_WORKS = {
     'work-snb-01': ('23.07.06', (0.0, 0.05, 0.78, 0.88)),   # włos maszynowy, znak Super Natural Brows / BABUSHKINA
@@ -240,6 +258,21 @@ def apply_grade(img, group):
 
 
 # --- rozcinanie sklejek -------------------------------------------------------
+
+def fit_white(img, pad=0.10, thresh=242):
+    """Kadr do produktu (piksele ciemniejsze niż `thresh`) z marginesem, dopełniony bielą do kwadratu."""
+    a = np.asarray(img.convert('L'))
+    ys, xs = np.where(a < thresh)
+    if len(xs) == 0:
+        return img
+    l, t, r, b = xs.min(), ys.min(), xs.max() + 1, ys.max() + 1
+    side = int(max(r - l, b - t) * (1 + 2 * pad))
+    cx, cy = (l + r) // 2, (t + b) // 2
+    out = Image.new('RGB', (side, side), (255, 255, 255))
+    crop = img.crop((max(0, cx - side // 2), max(0, cy - side // 2), min(img.width, cx + side // 2), min(img.height, cy + side // 2)))
+    out.paste(crop, ((side - crop.width) // 2, (side - crop.height) // 2))
+    return out
+
 
 def trim_black_bars(img, thresh=12):
     a = np.asarray(img.convert('L')).astype(np.float32)
@@ -387,7 +420,16 @@ def main():
         for name, suffix in NEW_PRODUCTS.items():
             i = by_suffix[suffix]
             im = load(i)
-            save_all(trim_black_bars(im) if name in PRODUCT_TRIM else im, name, 'product', manifest)
+            if name in PRODUCT_TRIM:
+                im = trim_black_bars(im)
+            if name in PRODUCT_FIT_WHITE:
+                im = fit_white(im)
+            save_all(im, name, 'product', manifest)
+            used.add(i)
+    if not only or 'course' in only:
+        for name, suffix in NEW_COURSE.items():
+            i = by_suffix[suffix]
+            save_all(load(i), name, 'course', manifest)
             used.add(i)
     if not only or 'work' in only:
         for name, (suffix, box) in NEW_WORKS.items():
